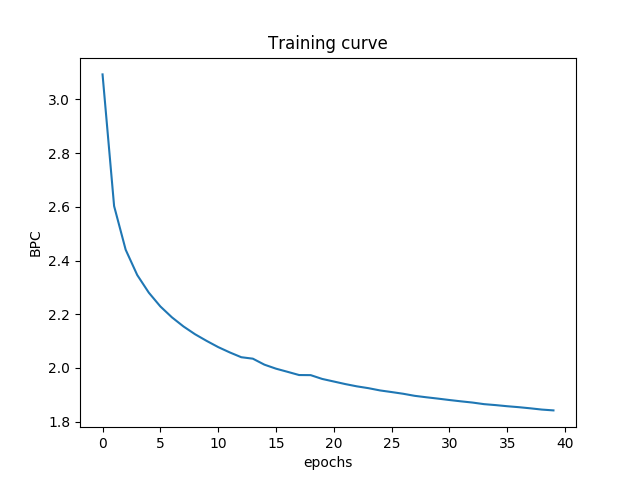
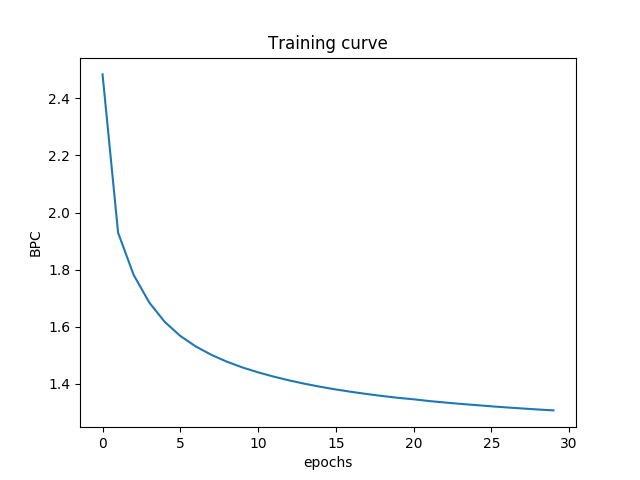
update rnn prediction and result.

diff --git a/rnn.py b/rnn.py
@@ -21,11 +21,12 @@ valid_encode = np.array([vocab_to_int[c] for c in text], dtype=np.int32)
 
 batch_size = tf.placeholder(tf.int32, shape=())
 keep_prob = tf.placeholder_with_default(1.0, shape=())
-num_steps = 100
-num_hidden = [256, 256]
+num_steps = 50
+num_hidden = [256, 128]
 num_class = len(vocab)
 learning_rate = 0.1
-epochs = 40
+epochs = 30
+k = 2
 
 X = tf.placeholder(tf.int32, [None, num_steps], name='input_X')
 Y = tf.placeholder(tf.int32, [None, num_steps], name='labels_Y')
@@ -38,20 +39,22 @@ labels = tf.one_hot(Y, num_class)
 
 def main(_):
     with tf.Session() as sess:
-        cells = get_rnn_cells(num_hidden, keep_prob)
+        cells = get_lstm_cells(num_hidden, keep_prob)
         init_states = cells.zero_state(batch_size, tf.float32)
 
         outputs, final_states = rnn(rnn_inputs, cells, num_hidden[-1], num_steps, num_class, init_states)
 
         predicts = tf.argmax(outputs, -1, name='predict_op')
+        softmax_out = tf.nn.softmax(outputs, name='softmax_op')
+        top_k = tf.nn.top_k(softmax_out, k=k, sorted=False, name='top_k_op')
         with tf.variable_scope('train'):
-            loss = tf.reduce_mean(tf.nn.softmax_cross_entropy_with_logits(labels=labels, logits=outputs),
+            loss = tf.reduce_mean(tf.nn.softmax_cross_entropy_with_logits_v2(labels=labels, logits=outputs),
                                   name='loss_op')
 
             global_step = tf.Variable(0, name='global_step', trainable=False,
                                       collections=[tf.GraphKeys.GLOBAL_VARIABLES, tf.GraphKeys.GLOBAL_STEP])
 
-            optimizer = tf.train.MomentumOptimizer(learning_rate=learning_rate, momentum=0.8)
+            optimizer = tf.train.MomentumOptimizer(learning_rate=learning_rate, momentum=0.9)
             train_op = optimizer.minimize(loss, global_step=global_step, name='train_op')
 
             arg_labels = tf.argmax(labels, -1)
@@ -77,7 +80,7 @@ def main(_):
             for x, y in get_batches(train_encode, batch_num, num_steps):
                 _, loss_value, acc_value, current_states = sess.run([train_op, loss_tensor, acc_op, final_states],
                                                                     feed_dict={X: x, Y: y, init_states: current_states,
-                                                                               keep_prob: 0.8})
+                                                                               keep_prob: 1})
                 total_loss += loss_value
                 total_acc += acc_value
                 count += 1
@@ -116,7 +119,7 @@ def main(_):
         plt.legend()
         plt.savefig("Training error.png", dpi=100)
 
-        # predict 100 words
+        # predict 500 words
         seed = 'Asuka'
         seed_encode = np.array([vocab_to_int[c] for c in list(seed)])
         seed_encode = np.concatenate((seed_encode, np.zeros(num_steps - 5)))
@@ -124,14 +127,20 @@ def main(_):
         index = 4
         for i in range(500):
             if index == num_steps - 1:
-                predicted, current_states = sess.run([predicts, final_states],
-                                                     feed_dict={X: seed_encode[None, :], init_states: current_states})
-                seed_encode = np.append(predicted[0, -1], np.zeros(num_steps - 1))
+                candidates, current_states = sess.run([top_k, final_states],
+                                                     feed_dict={X: seed_encode[None, :], init_states: current_states})    
+                p = candidates.values[0, index]
+                p /= p.sum()
+                rand_idx = np.random.choice(k, p=p)
+                seed_encode = np.append(candidates.indices[0, index, rand_idx], np.zeros(num_steps - 1))
             else:
-                predicted = sess.run(predicts, feed_dict={X: seed_encode[None, :], init_states: current_states})
-                seed_encode[index + 1] = predicted[0, index]
+                candidates = sess.run(top_k, feed_dict={X: seed_encode[None, :], init_states: current_states})
+                p = candidates.values[0, index]
+                p /= p.sum()
+                rand_idx = np.random.choice(k, p=p)
+                seed_encode[index + 1] = candidates.indices[0, index, rand_idx]
 
-            seed += int_to_vocab[predicted[0, index]]
+            seed += int_to_vocab[candidates.indices[0, index, rand_idx]]
             index = (index + 1) % num_steps
         print(seed)
         b = datetime.now().replace(microsecond=0)

diff --git a/README.md b/README.md
@@ -45,29 +45,53 @@ After training, it will generate training curve and training error as usual, and
 
 ```
 Start training ...
-Epochs: 1, loss: 3.0935, acc: 0.1816, val_acc: 0.2798
-Epochs: 2, loss: 2.6029, acc: 0.2727, val_acc: 0.3391
-Epochs: 3, loss: 2.4404, acc: 0.3106, val_acc: 0.3770
-Epochs: 4, loss: 2.3461, acc: 0.3331, val_acc: 0.3990
-Epochs: 5, loss: 2.2806, acc: 0.3485, val_acc: 0.4104
-.
-.
-.
-Epochs: 36, loss: 1.8574, acc: 0.4568, val_acc: 0.5299
-Epochs: 37, loss: 1.8539, acc: 0.4577, val_acc: 0.5316
-Epochs: 38, loss: 1.8497, acc: 0.4588, val_acc: 0.5340
-Epochs: 39, loss: 1.8449, acc: 0.4600, val_acc: 0.5339
-Epochs: 40, loss: 1.8419, acc: 0.4609, val_acc: 0.5358
-Asukallen and the strong of the sease,
-That they are so the strong of the court shall be thee,
-The strong of the senter of the sealth of thee,
-The strong of the senter of the sealth of thee,
-The strenger of the sease of the court shall be thee,
-The strenger of the sease of the court shall be thee,
-The strenger of the sease of the court shall be thee,
-The strenger of the sease of the court shall be thee,
-The strenger of the sease of the court shall be thee,
-The strenger of the sease of the court shall
-Time cost: 3:09:49
+Epochs: 1, loss: 2.4919, acc: 0.3128, val_acc: 0.4112
+Epochs: 2, loss: 1.9383, acc: 0.4446, val_acc: 0.4599
+Epochs: 3, loss: 1.7829, acc: 0.4877, val_acc: 0.4841
+Epochs: 4, loss: 1.6837, acc: 0.5163, val_acc: 0.5016
+Epochs: 5, loss: 1.6151, acc: 0.5355, val_acc: 0.5148
+Epochs: 6, loss: 1.5657, acc: 0.5485, val_acc: 0.5236
+Epochs: 7, loss: 1.5281, acc: 0.5584, val_acc: 0.5303
+Epochs: 8, loss: 1.4986, acc: 0.5660, val_acc: 0.5369
+Epochs: 9, loss: 1.4746, acc: 0.5721, val_acc: 0.5425
+Epochs: 10, loss: 1.4548, acc: 0.5772, val_acc: 0.5470
+Epochs: 11, loss: 1.4379, acc: 0.5814, val_acc: 0.5506
+Epochs: 12, loss: 1.4235, acc: 0.5850, val_acc: 0.5531
+Epochs: 13, loss: 1.4109, acc: 0.5882, val_acc: 0.5550
+Epochs: 14, loss: 1.3996, acc: 0.5910, val_acc: 0.5564
+Epochs: 15, loss: 1.3897, acc: 0.5935, val_acc: 0.5581
+Epochs: 16, loss: 1.3816, acc: 0.5953, val_acc: 0.5593
+Epochs: 17, loss: 1.3728, acc: 0.5977, val_acc: 0.5606
+Epochs: 18, loss: 1.3654, acc: 0.5995, val_acc: 0.5619
+Epochs: 19, loss: 1.3586, acc: 0.6012, val_acc: 0.5631
+Epochs: 20, loss: 1.3523, acc: 0.6027, val_acc: 0.5640
+Epochs: 21, loss: 1.3466, acc: 0.6042, val_acc: 0.5650
+Epochs: 22, loss: 1.3408, acc: 0.6056, val_acc: 0.5653
+Epochs: 23, loss: 1.3357, acc: 0.6069, val_acc: 0.5657
+Epochs: 24, loss: 1.3308, acc: 0.6082, val_acc: 0.5655
+Epochs: 25, loss: 1.3264, acc: 0.6094, val_acc: 0.5664
+Epochs: 26, loss: 1.3222, acc: 0.6104, val_acc: 0.5669
+Epochs: 27, loss: 1.3182, acc: 0.6114, val_acc: 0.5675
+Epochs: 28, loss: 1.3144, acc: 0.6123, val_acc: 0.5678
+Epochs: 29, loss: 1.3109, acc: 0.6133, val_acc: 0.5680
+Epochs: 30, loss: 1.3075, acc: 0.6141, val_acc: 0.5689
+Asukal their sons
+and to the senseless off and things that seems
+Which they are so as well as well as well.
+Therefore, to see the street of the strength of her face.
 
+PETRUCHIO:
+What say you?
+
+PETRUCHIO:
+What is the news of this? What shall we do?
+
+LUCIANA:
+And that we shall be satisfied to his daughter,
+To see the sea of true consent than thine,
+And then, and that the sea was stay'd to do
+Assemb a secret that we here, a seal
+That they are struckingly to the duke of the
+present constable and a most p
+Time cost: 2:41:15
 ```
